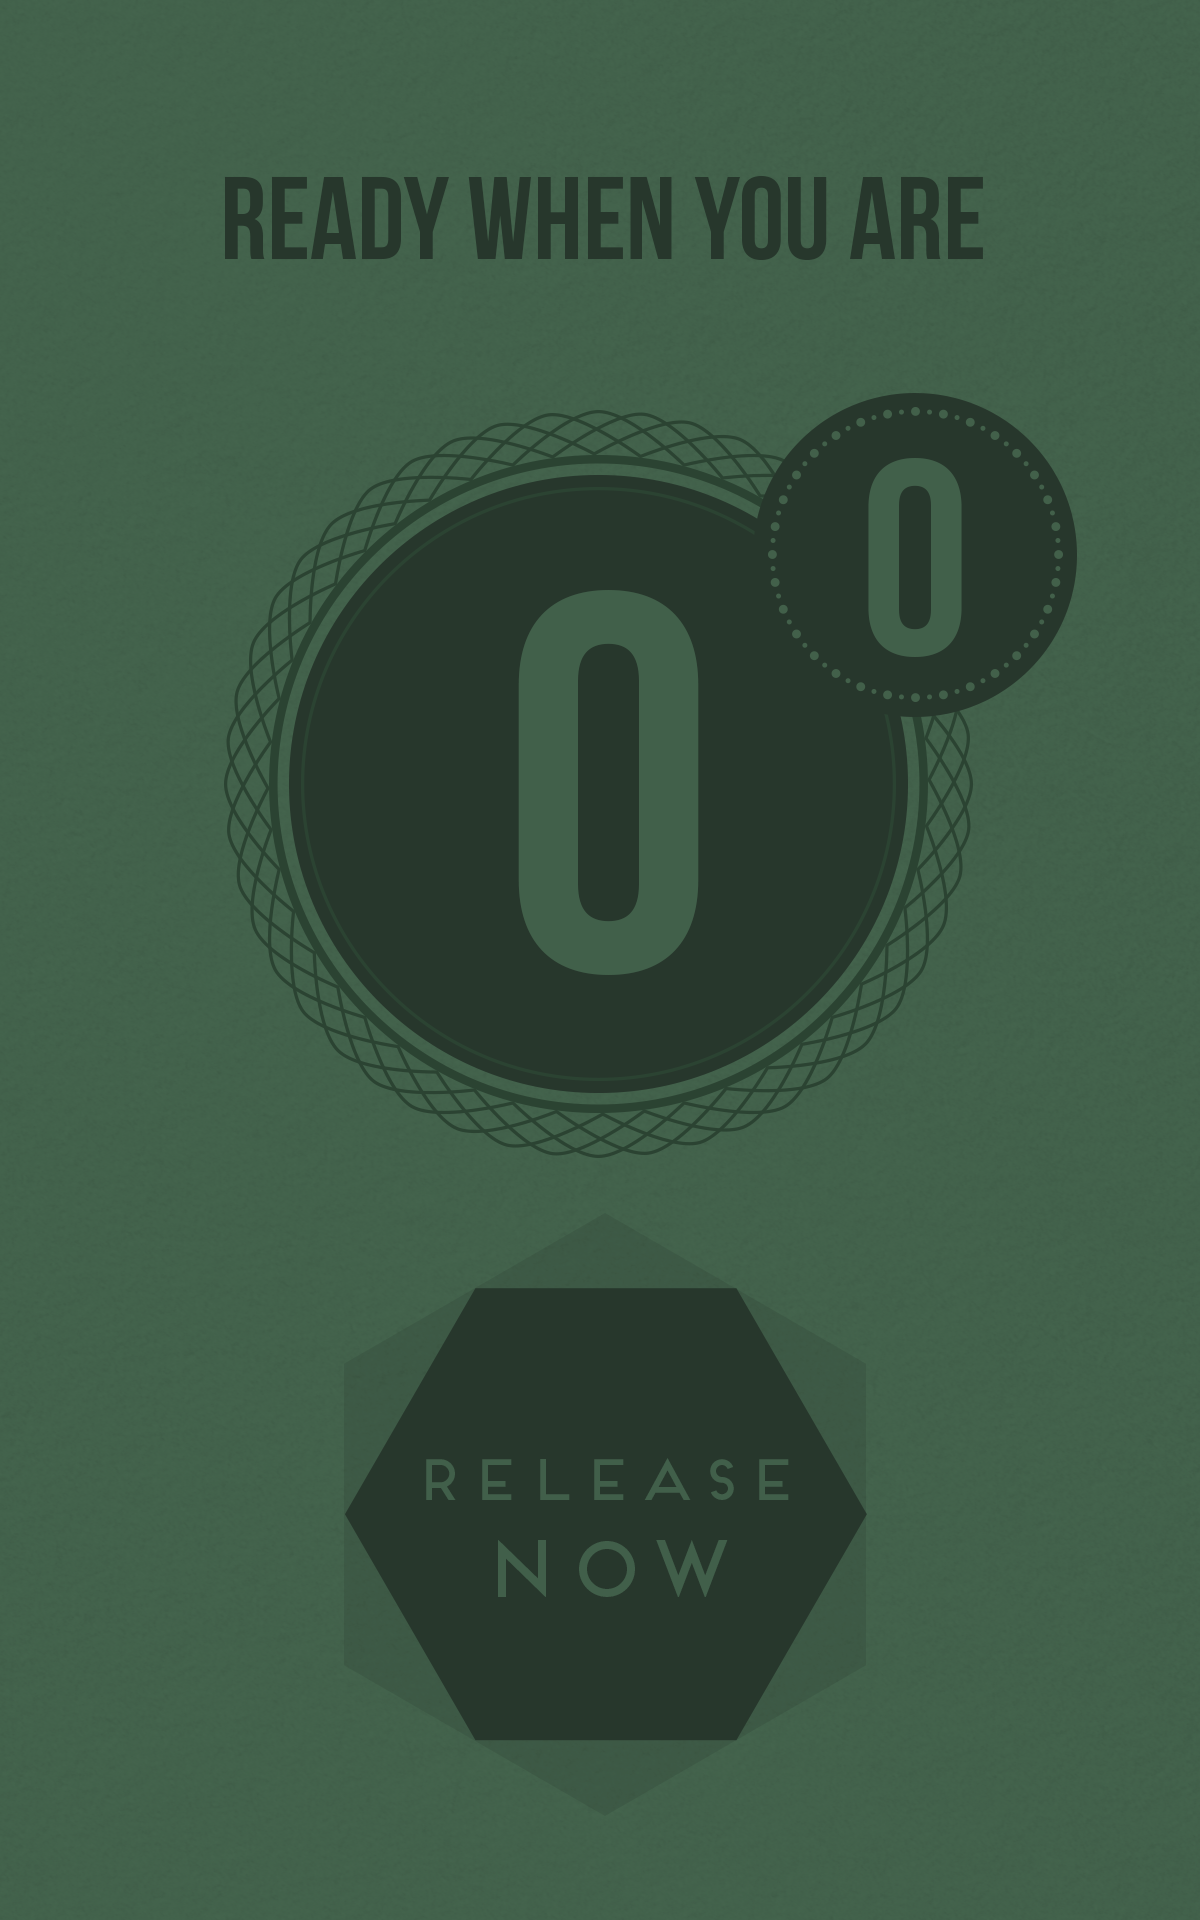
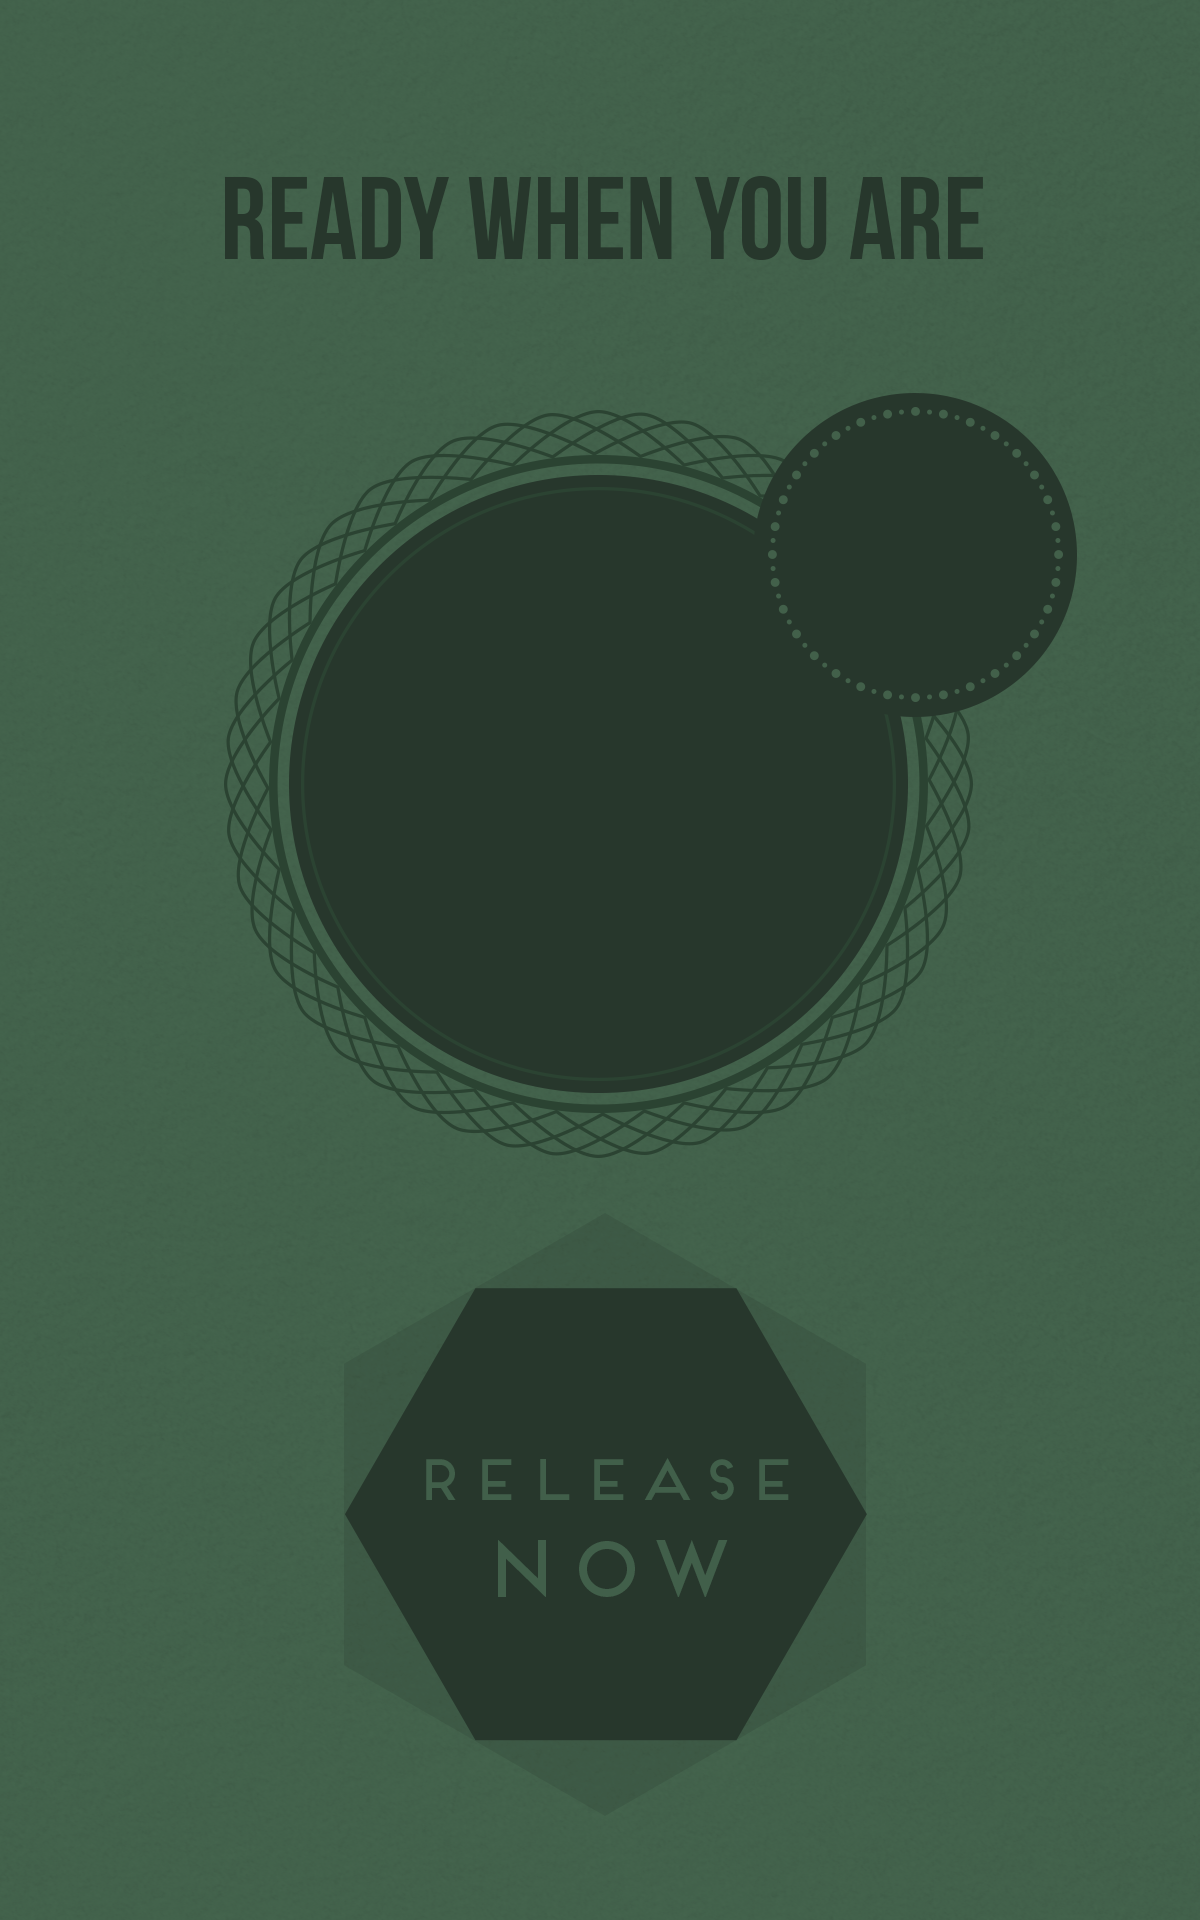
Start timer

Changed region(s): [[0.4317, 0.2812, 0.5858, 0.5312], [0.7092, 0.2188, 0.8017, 0.3438]]

diff --git a/www/index.html b/www/index.html
@@ -37,6 +37,7 @@
   bindUIfunctionality()
   warmupUIforFastFirstResponse()
   document.addEventListener('deviceready', onDeviceReady, false)
+  var startTime = 0
 
   function warmupUIforFastFirstResponse() {
     $('.card').addClass('flipped')
@@ -49,12 +50,22 @@
     $('.card').on('touchstart mousedown',function() {
       $(this).addClass('flipped')
     }).on('touchend mouseup', function() {
-          $(this).removeClass('flipped')
+          if (startTime == 0) {
+            startTime = Date.now()
+            startTimer()
+          }
         })
     //Disable scrolling of view (when Android navigation menu is shown)
     document.addEventListener('touchmove', function(e) {
       e.preventDefault()
     }, false)
+
+    function startTimer() {
+      var elapsedMillis = Date.now() - startTime
+      $('.seconds').text(Math.floor(elapsedMillis / 1000))
+      $('.tenths').text(Math.floor(elapsedMillis / 100) % 10)
+      window.requestAnimationFrame(startTimer)
+    }
   }
 
   function onDeviceReady() {
